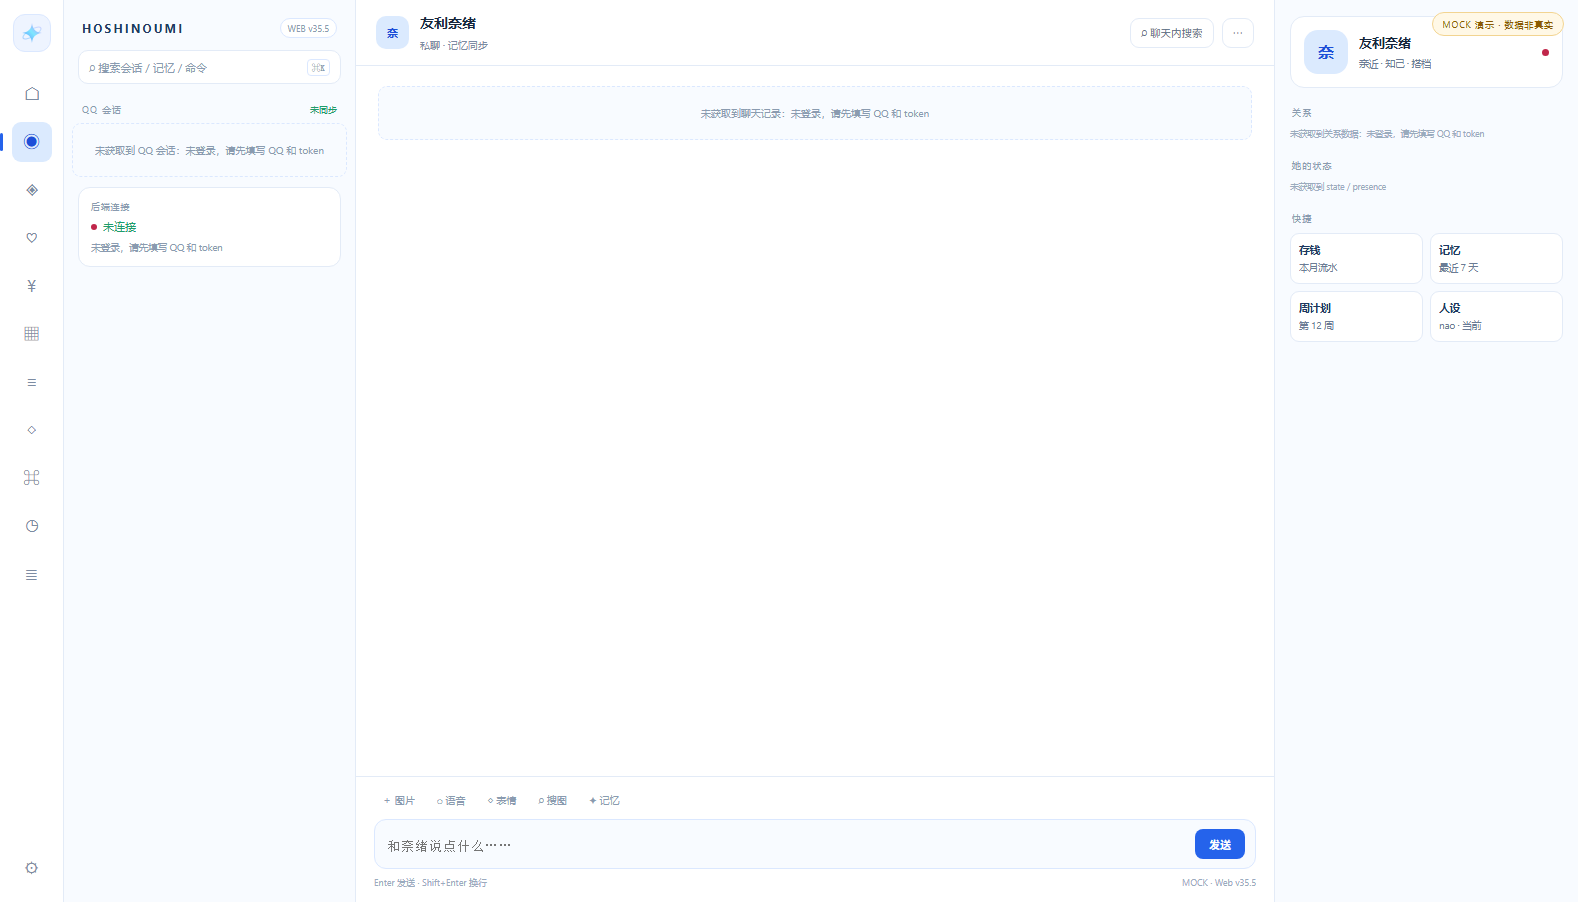
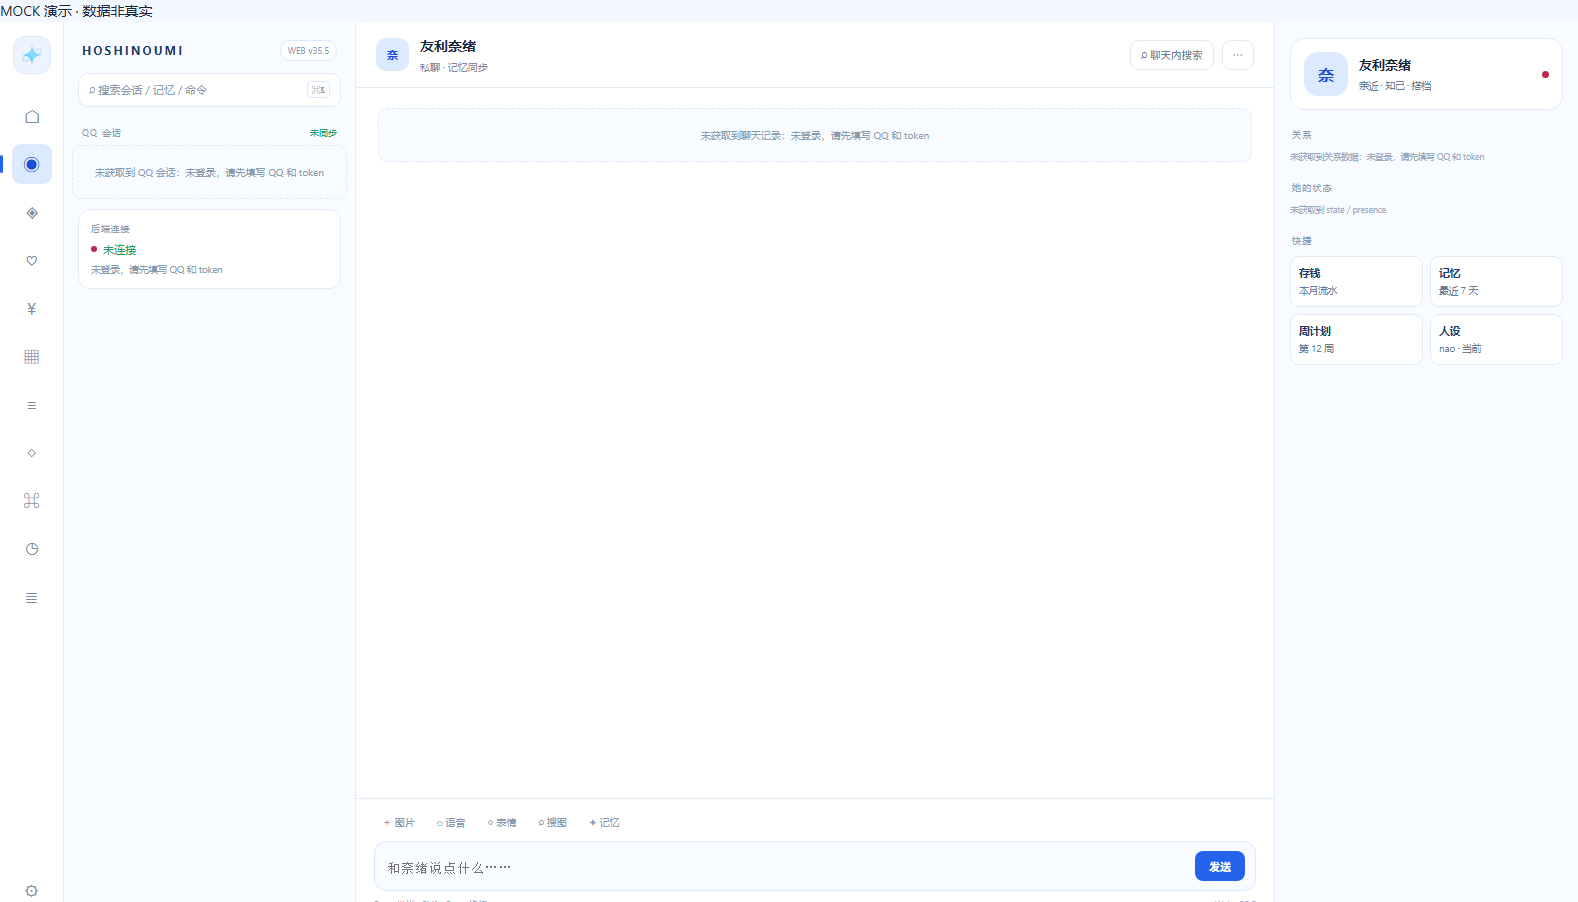
style(v35.5): 移除测试环境 MOCK 横幅

diff --git a/integrations/web/src/views/ChatView.vue b/integrations/web/src/views/ChatView.vue
@@ -30,7 +30,7 @@ const session = useSessionStore()
           发送
         </button>
       </div><div class="hint">
-        <span>Enter 发送 · Shift+Enter 换行</span><span>MOCK · Web v35.5</span>
+        <span>Enter 发送 · Shift+Enter 换行</span><span>Web v35.5</span>
       </div>
     </div>
   </div>
